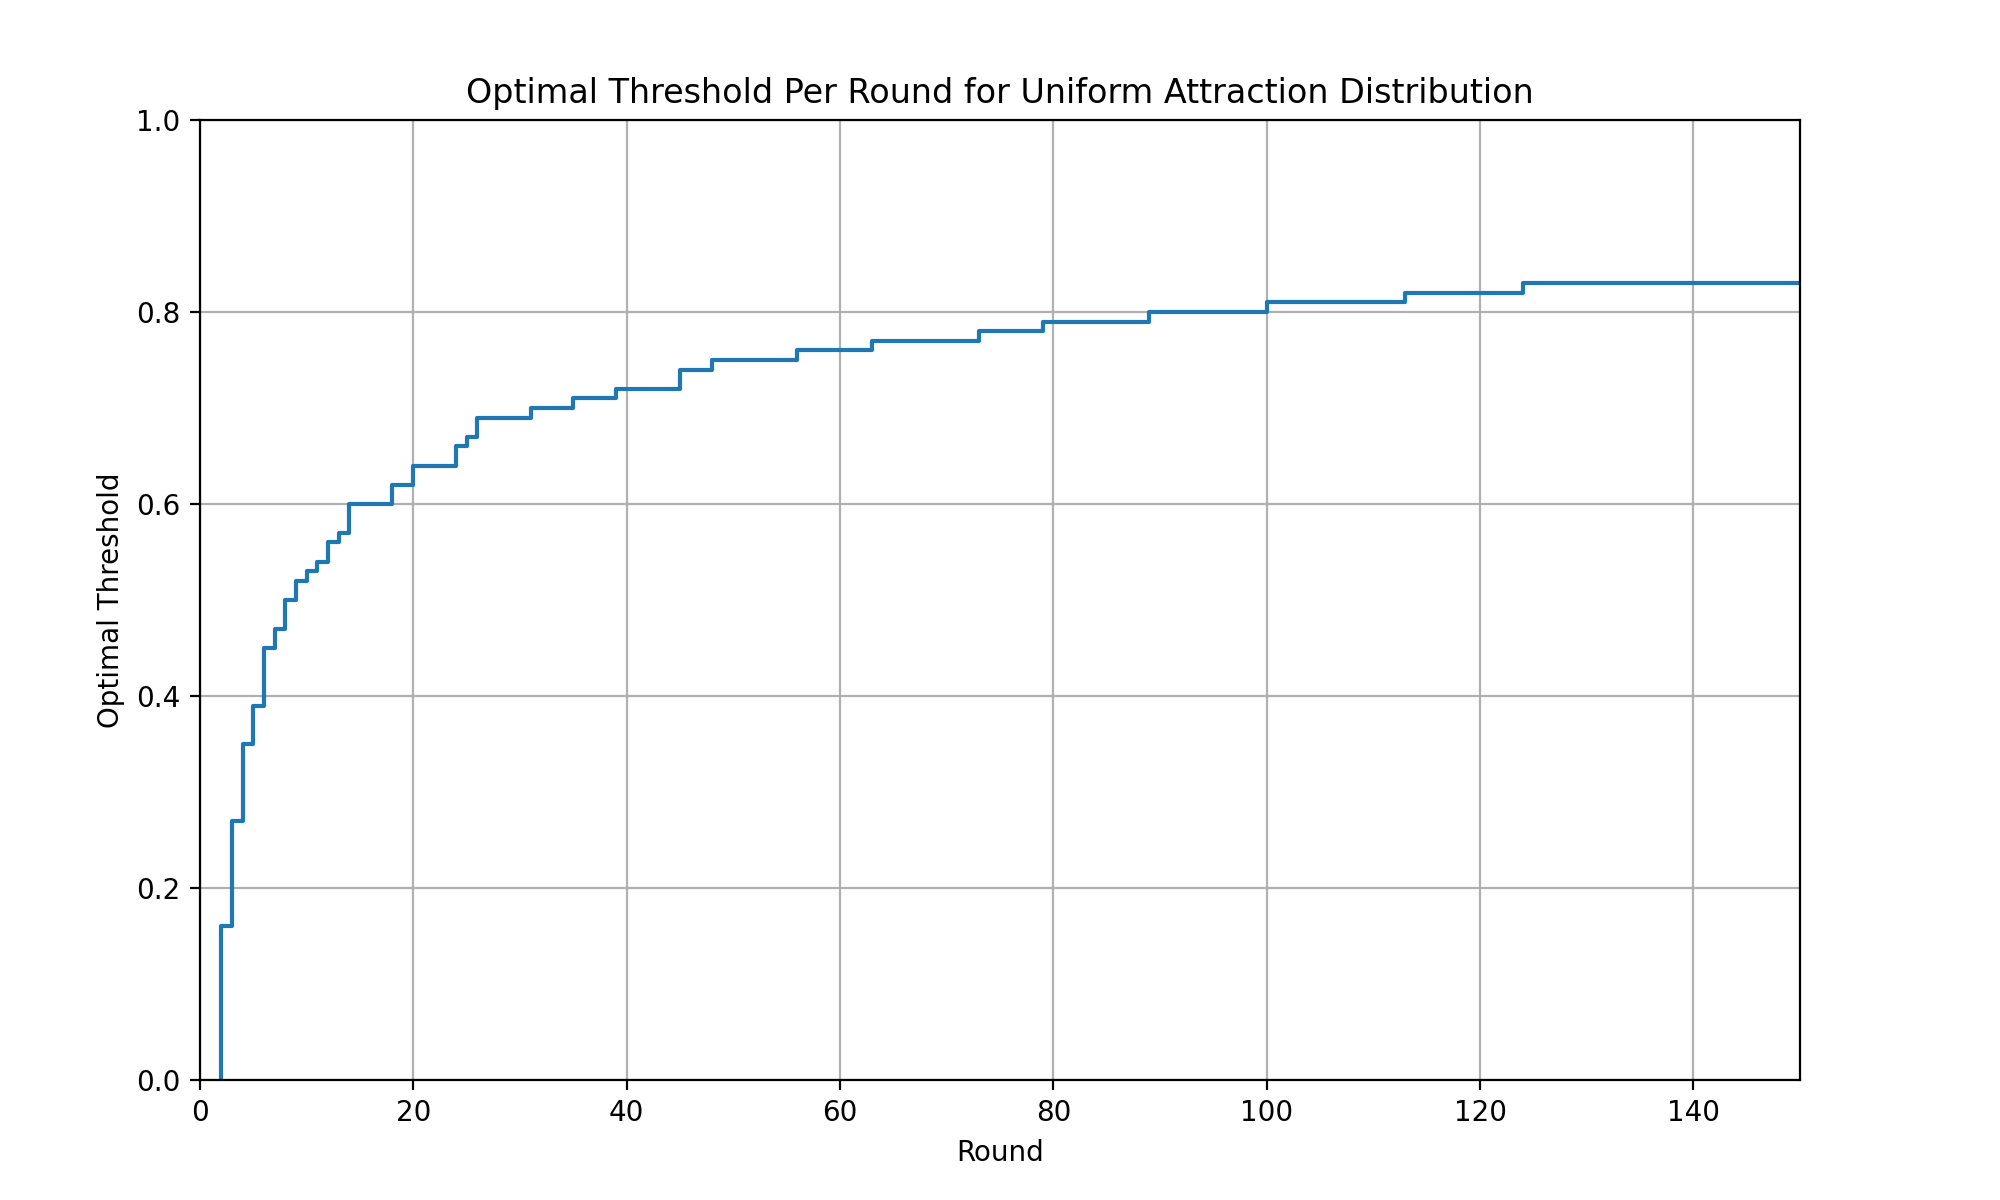
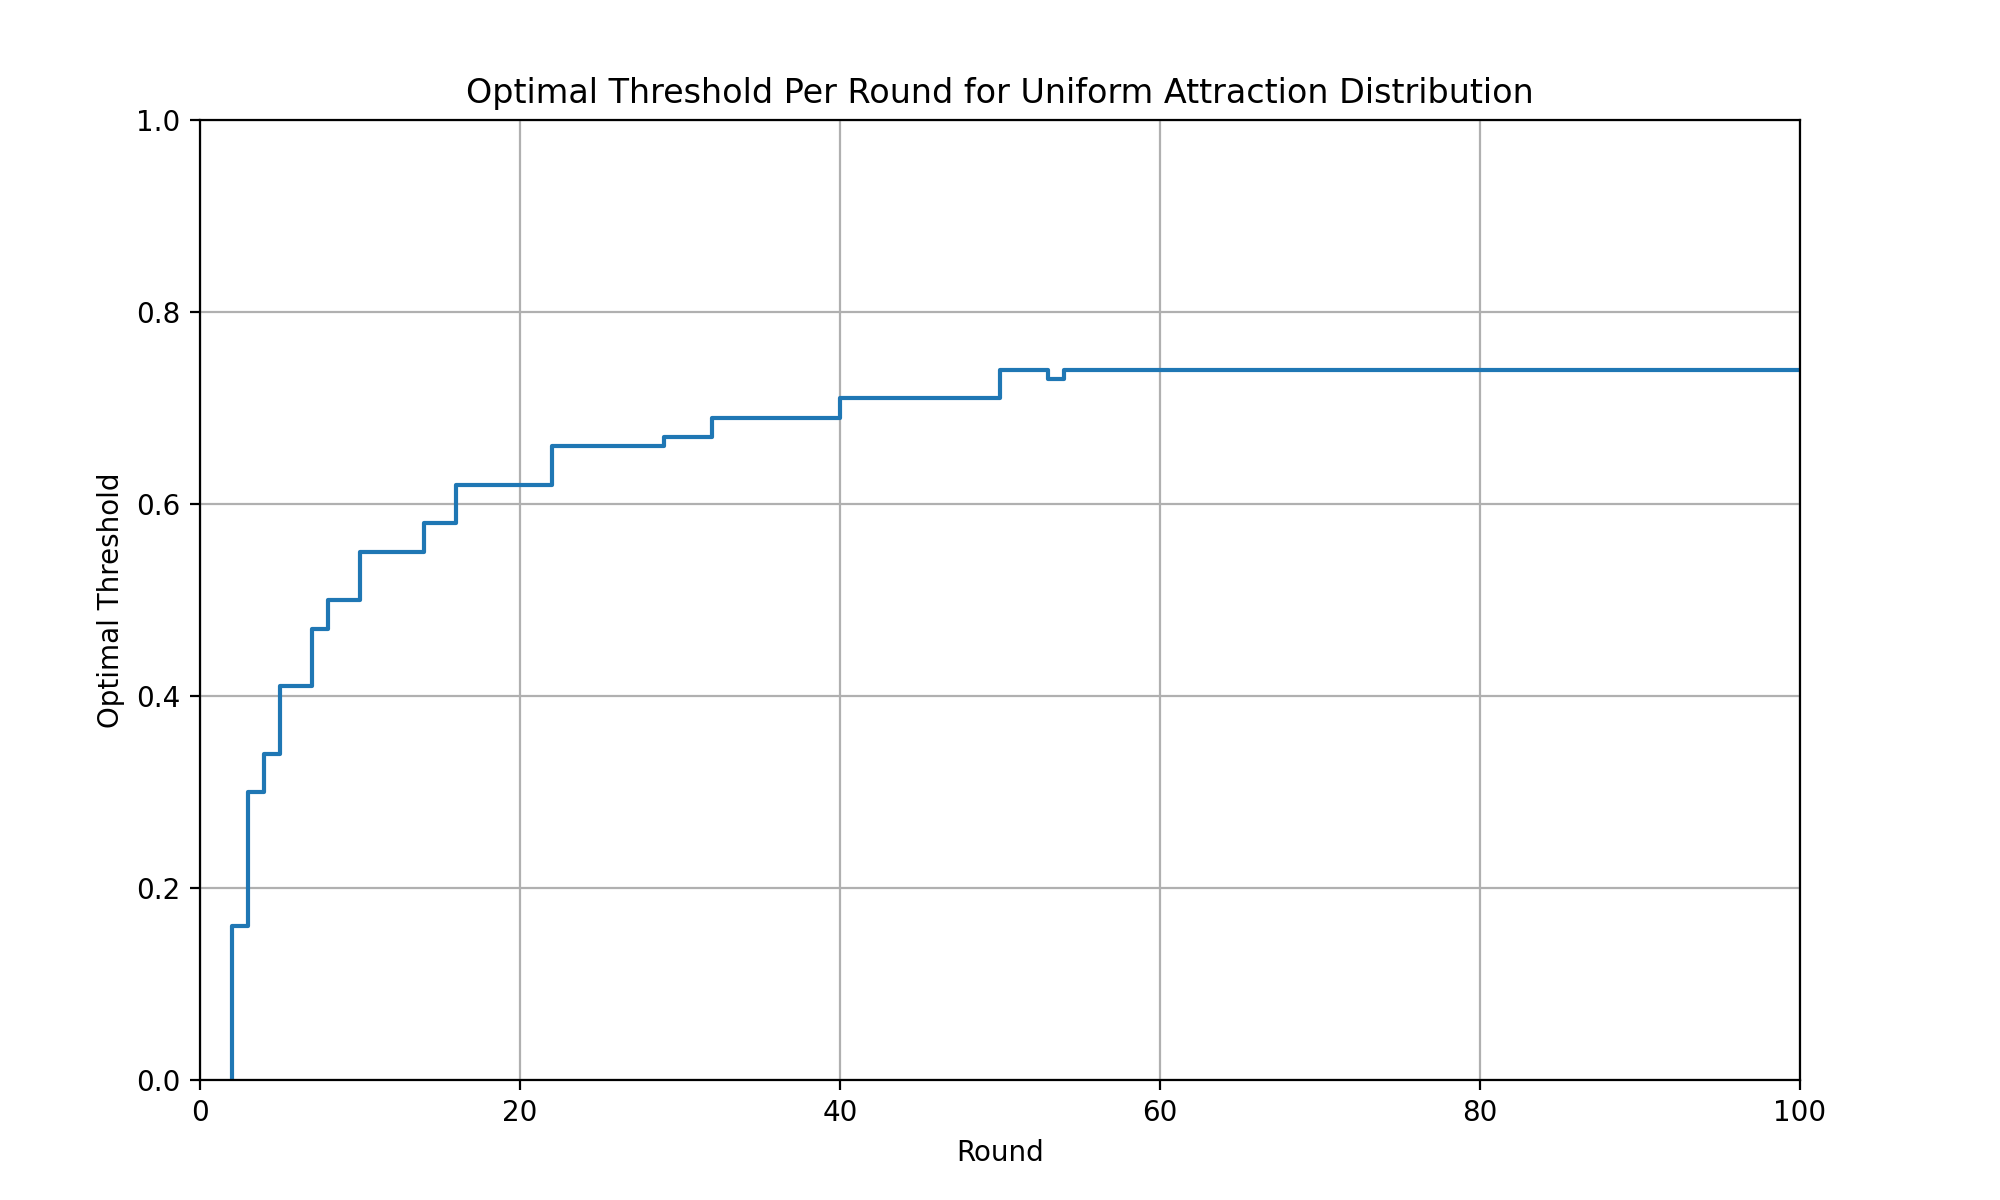
re-ran code

diff --git a/src/main.py b/src/main.py
@@ -364,4 +364,4 @@ def plot_optimal_thresholds(min_total_error_threshold, attractionDist):
     fig.savefig(file_name)
     plt.close()
 
-aggregate_simulations("Uniform", num_population = 1000, num_rounds = 150, num_simulations = 100, plot = True, round_to_plot = 150, read_csv = False, write_csv = False)
+aggregate_simulations("Uniform", num_population = 100, num_rounds = 100, num_simulations = 100, plot = True, round_to_plot = 100, read_csv = False, write_csv = False)
